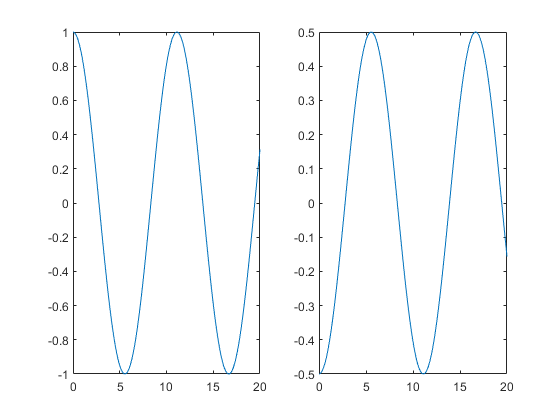
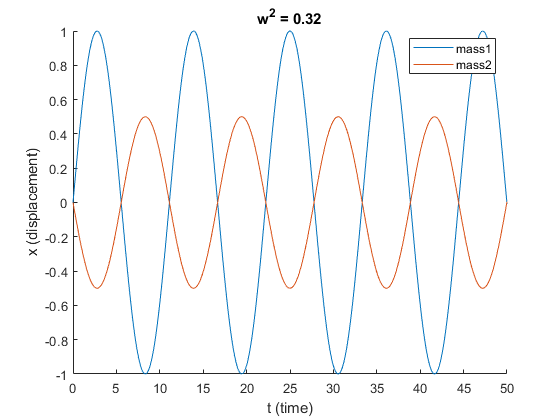
Feat: Reprint the results of HW6 Q3

diff --git a/HW6/HW6_Q3.m b/HW6/HW6_Q3.m
@@ -20,20 +20,14 @@ lambda = diag(lambda);
 
 T = 1./(sqrt(lambda)/2/pi);
 
-t = 0 : 0.1 : 20;
+t = 0 : 0.1 : 50;
 
-figure(1);
-% subplot(m,n,p)
-% divides the figure into an m-by-n grid and creates axes in the position specified by p
-subplot(1, 2, 1)
-plot(t, cos(2 * pi / T(1, :) * t) * v(1, 1)/v(1, 1));
-subplot(1, 2, 2)
-plot(t, cos(2 * pi / T(1, :) * t) * v(2, 1)/v(1, 1));
-
-figure(2);
-% subplot(m,n,p)
-% divides the figure into an m-by-n grid and creates axes in the position specified by p
-subplot(1, 2, 1)
-plot(t, cos(2 * pi / T(2, :) * t) * v(1, 2)/v(2, 2));
-subplot(1, 2, 2)
-plot(t, cos(2 * pi / T(2, :) * t) * v(2, 2)/v(2, 2));
+for i = 1:2
+     figure(i);
+     hold on;
+     title("w^2 = " + num2str(lambda(i)));
+     plot(t, sin(2 * pi / T(i, :) * t) * v(1, i)/v(i, i));
+     plot(t, sin(2 * pi / T(i, :) * t) * v(2, i)/v(i, i));
+     legend('mass1', 'mass2', 'location', 'best');
+     xlabel('t (time)'); ylabel('x (displacement)');
+end
